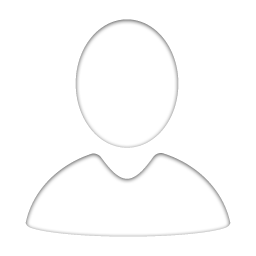
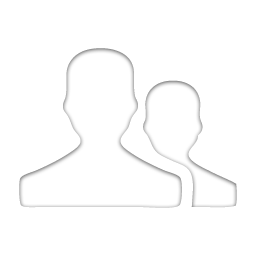
Add placeholder to pick friends view

diff --git a/source/PeoplePicker.js b/source/PeoplePicker.js
@@ -12,7 +12,8 @@ enyo.kind({
     events: {
         // Is sent whenever a person is selected or unselected
         onChange: "",
-        onDone: ""
+        onDone: "",
+        onInviteFriends: ""
     },
     create: function() {
         this.inherited(arguments);
@@ -23,6 +24,7 @@ enyo.kind({
     itemsChanged: function() {
         this.filteredItems = this.items;
         this.refreshList();
+        this.$.panels.setIndex(this.items.length ? 0 : 1);
     },
     /**
         Marks all _items_ as selected
@@ -113,14 +115,25 @@ enyo.kind({
         {classes: "header", components: [
             {kind: "Button", ontap: "doDone", classes: "header-button right", content: $L("done")}
         ]},
-        // SEARCH INPUT
-        {kind: "SearchInput", name: "searchInput", classes: "discover-searchinput", onCancel: "searchInputCancel", onkeyup: "keyupHandler"},
-        {kind: "Scroller", strategyKind: "TransitionScrollStrategy", thumb: false, fit: true, components: [
-            {kind: "Repeater", name: "list", onSetupItem: "setupItem", ontap: "itemTap", components: [
-                {classes: "list-item userlistitem peoplepicker-item", name: "item", components: [
-                    {kind: "Image", classes: "userlistitem-avatar", name: "avatar"},
-                    {classes: "userlistitem-fullname ellipsis", name: "fullName"},
-                    {classes: "peoplepicker-item-light"}
+        {kind: "Panels", fit: true, animate: false, draggable: false, components: [
+            {kind: "FittableRows", components: [
+                // SEARCH INPUT
+                {kind: "SearchInput", name: "searchInput", classes: "discover-searchinput", onCancel: "searchInputCancel", onkeyup: "keyupHandler"},
+                {kind: "Scroller", strategyKind: "TransitionScrollStrategy", thumb: false, fit: true, components: [
+                    {kind: "Repeater", name: "list", onSetupItem: "setupItem", ontap: "itemTap", components: [
+                        {classes: "list-item userlistitem peoplepicker-item", name: "item", components: [
+                            {kind: "Image", classes: "userlistitem-avatar", name: "avatar"},
+                            {classes: "userlistitem-fullname ellipsis", name: "fullName"},
+                            {classes: "peoplepicker-item-light"}
+                        ]}
+                    ]}
+                ]}
+            ]},
+            {classes: "peoplepicker-placeholder", components: [
+                {classes: "peoplepicker-placeholder-card absolute-center", components: [
+                    {kind: "Image", src: "assets/images/friends_placeholder.png", classes: "peoplepicker-placeholder-image"},
+                    {classes: "peoplepicker-placeholder-text", content: $L("It seems you don't have any friends on Chuisy yet. Friends are people you follow that follow you back.")},
+                    {kind: "Button", classes: "peoplepicker-invite-friends-button", ontap: "doInviteFriends", content: $L("Invite Friends")}
                 ]}
             ]}
         ]}

diff --git a/source/css/PeoplePicker.css b/source/css/PeoplePicker.css
@@ -56,3 +56,46 @@
     border: none;
     box-shadow: inset 0 0 2px rgba(0, 0, 0, 0.5);
 }
+
+.peoplepicker-placeholder-card {
+    background-image: url(../../assets/images/lightpaperfibers.png);
+    background-size: 500px 300px;
+    background-color: white;
+    text-align: center;
+    box-sizing: border-box;
+    border-radius: 10px;
+    box-shadow: 0 2px 4px rgba(0, 0, 0, 0.3);
+    width: 300px;
+    height: 300px;
+    display: -webkit-box;
+    -webkit-box-orient: vertical;
+}
+
+.peoplepicker-placeholder-image {
+    width: 128px;
+    height: 128px;
+    display: block;
+    margin: 15px auto;
+}
+
+.peoplepicker-placeholder-text {
+    padding: 0 20px 10px 20px;
+    font-size: 12pt;
+    line-height: 1.4em;
+    color: #555;
+    -webkit-box-flex: 1;
+}
+
+.peoplepicker-invite-friends-button {
+    display: block;
+    width: 100%;
+    padding: 10px 10px 12px 10px;
+    font-weight: bold;
+    box-shadow: none;
+    border-radius: 10px;
+    border-top-left-radius: 0;
+    border-top-right-radius: 0;
+    border: none;
+    border-top: solid 1px #e0e0e0;
+    font-size: 12pt;
+}

diff --git a/source/css/PickStore.css b/source/css/PickStore.css
@@ -106,6 +106,7 @@
     border-radius: 10px;
     border-top-left-radius: 0;
     border-top-right-radius: 0;
+    border: none;
     border-top: solid 1px #e0e0e0;
     /*background-image: -webkit-gradient(linear, 0 0, 0 100%, from(rgba(0, 0, 0, 0.02)), to(rgba(0, 0, 0, 0.08)));
     padding: 6px 10px 8px 10px;
